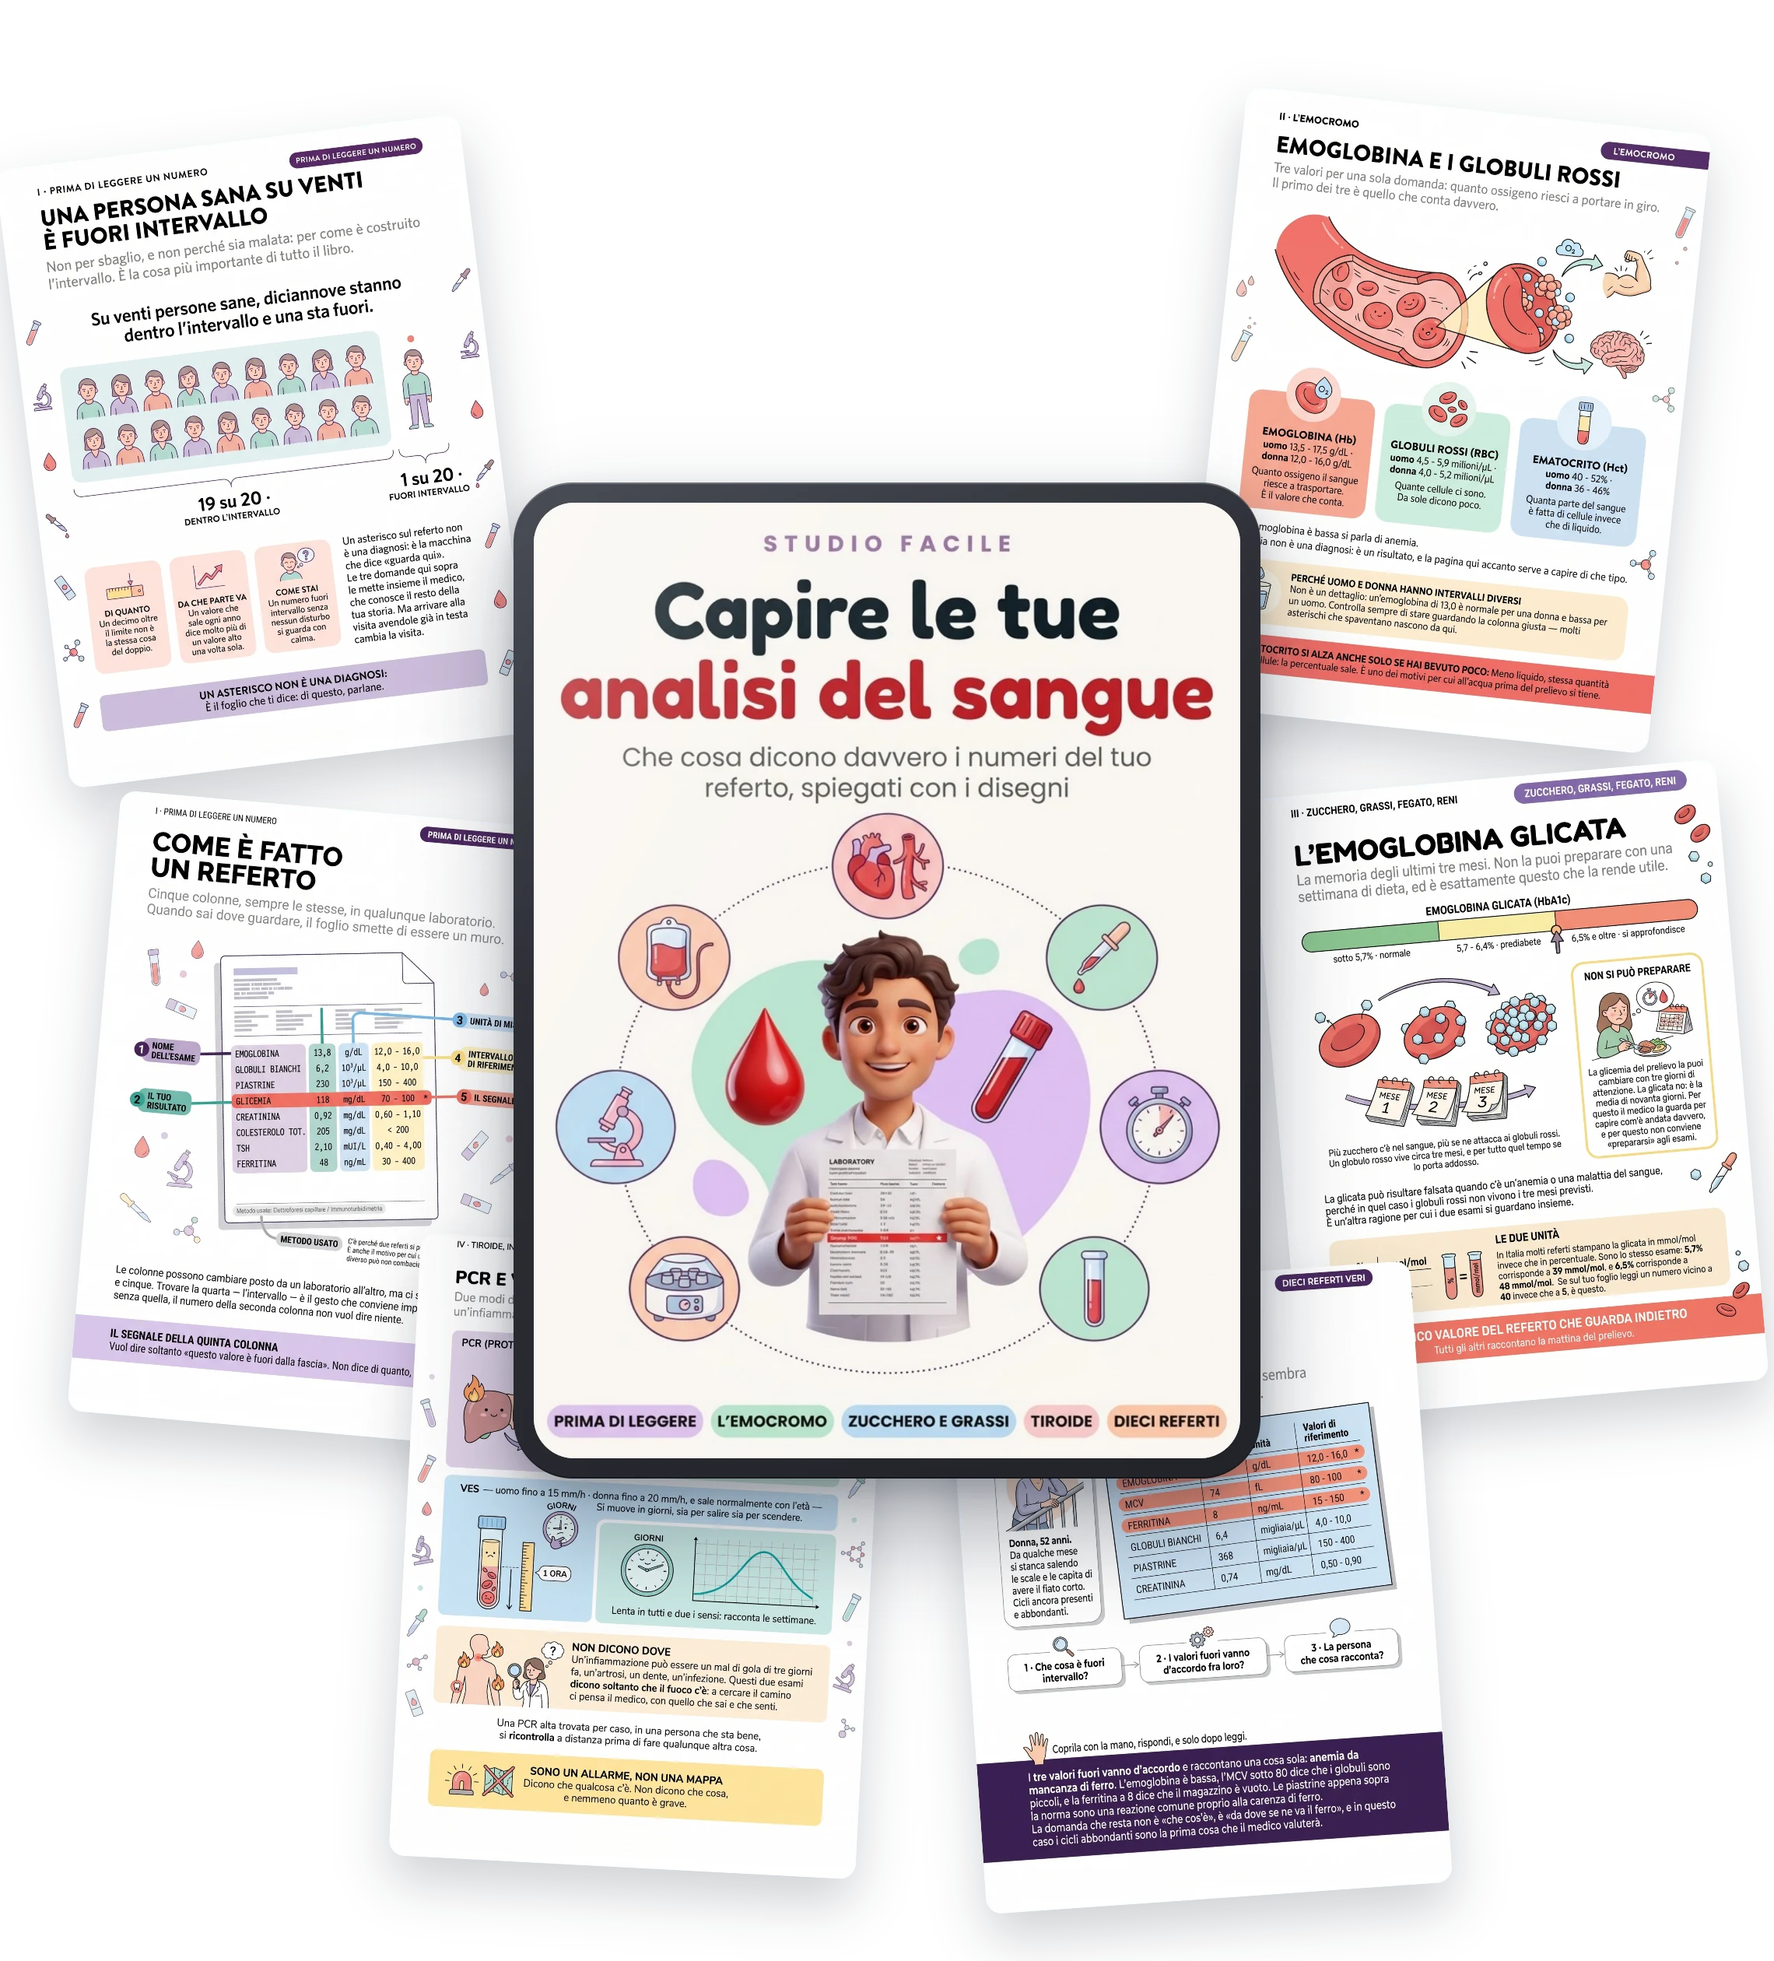
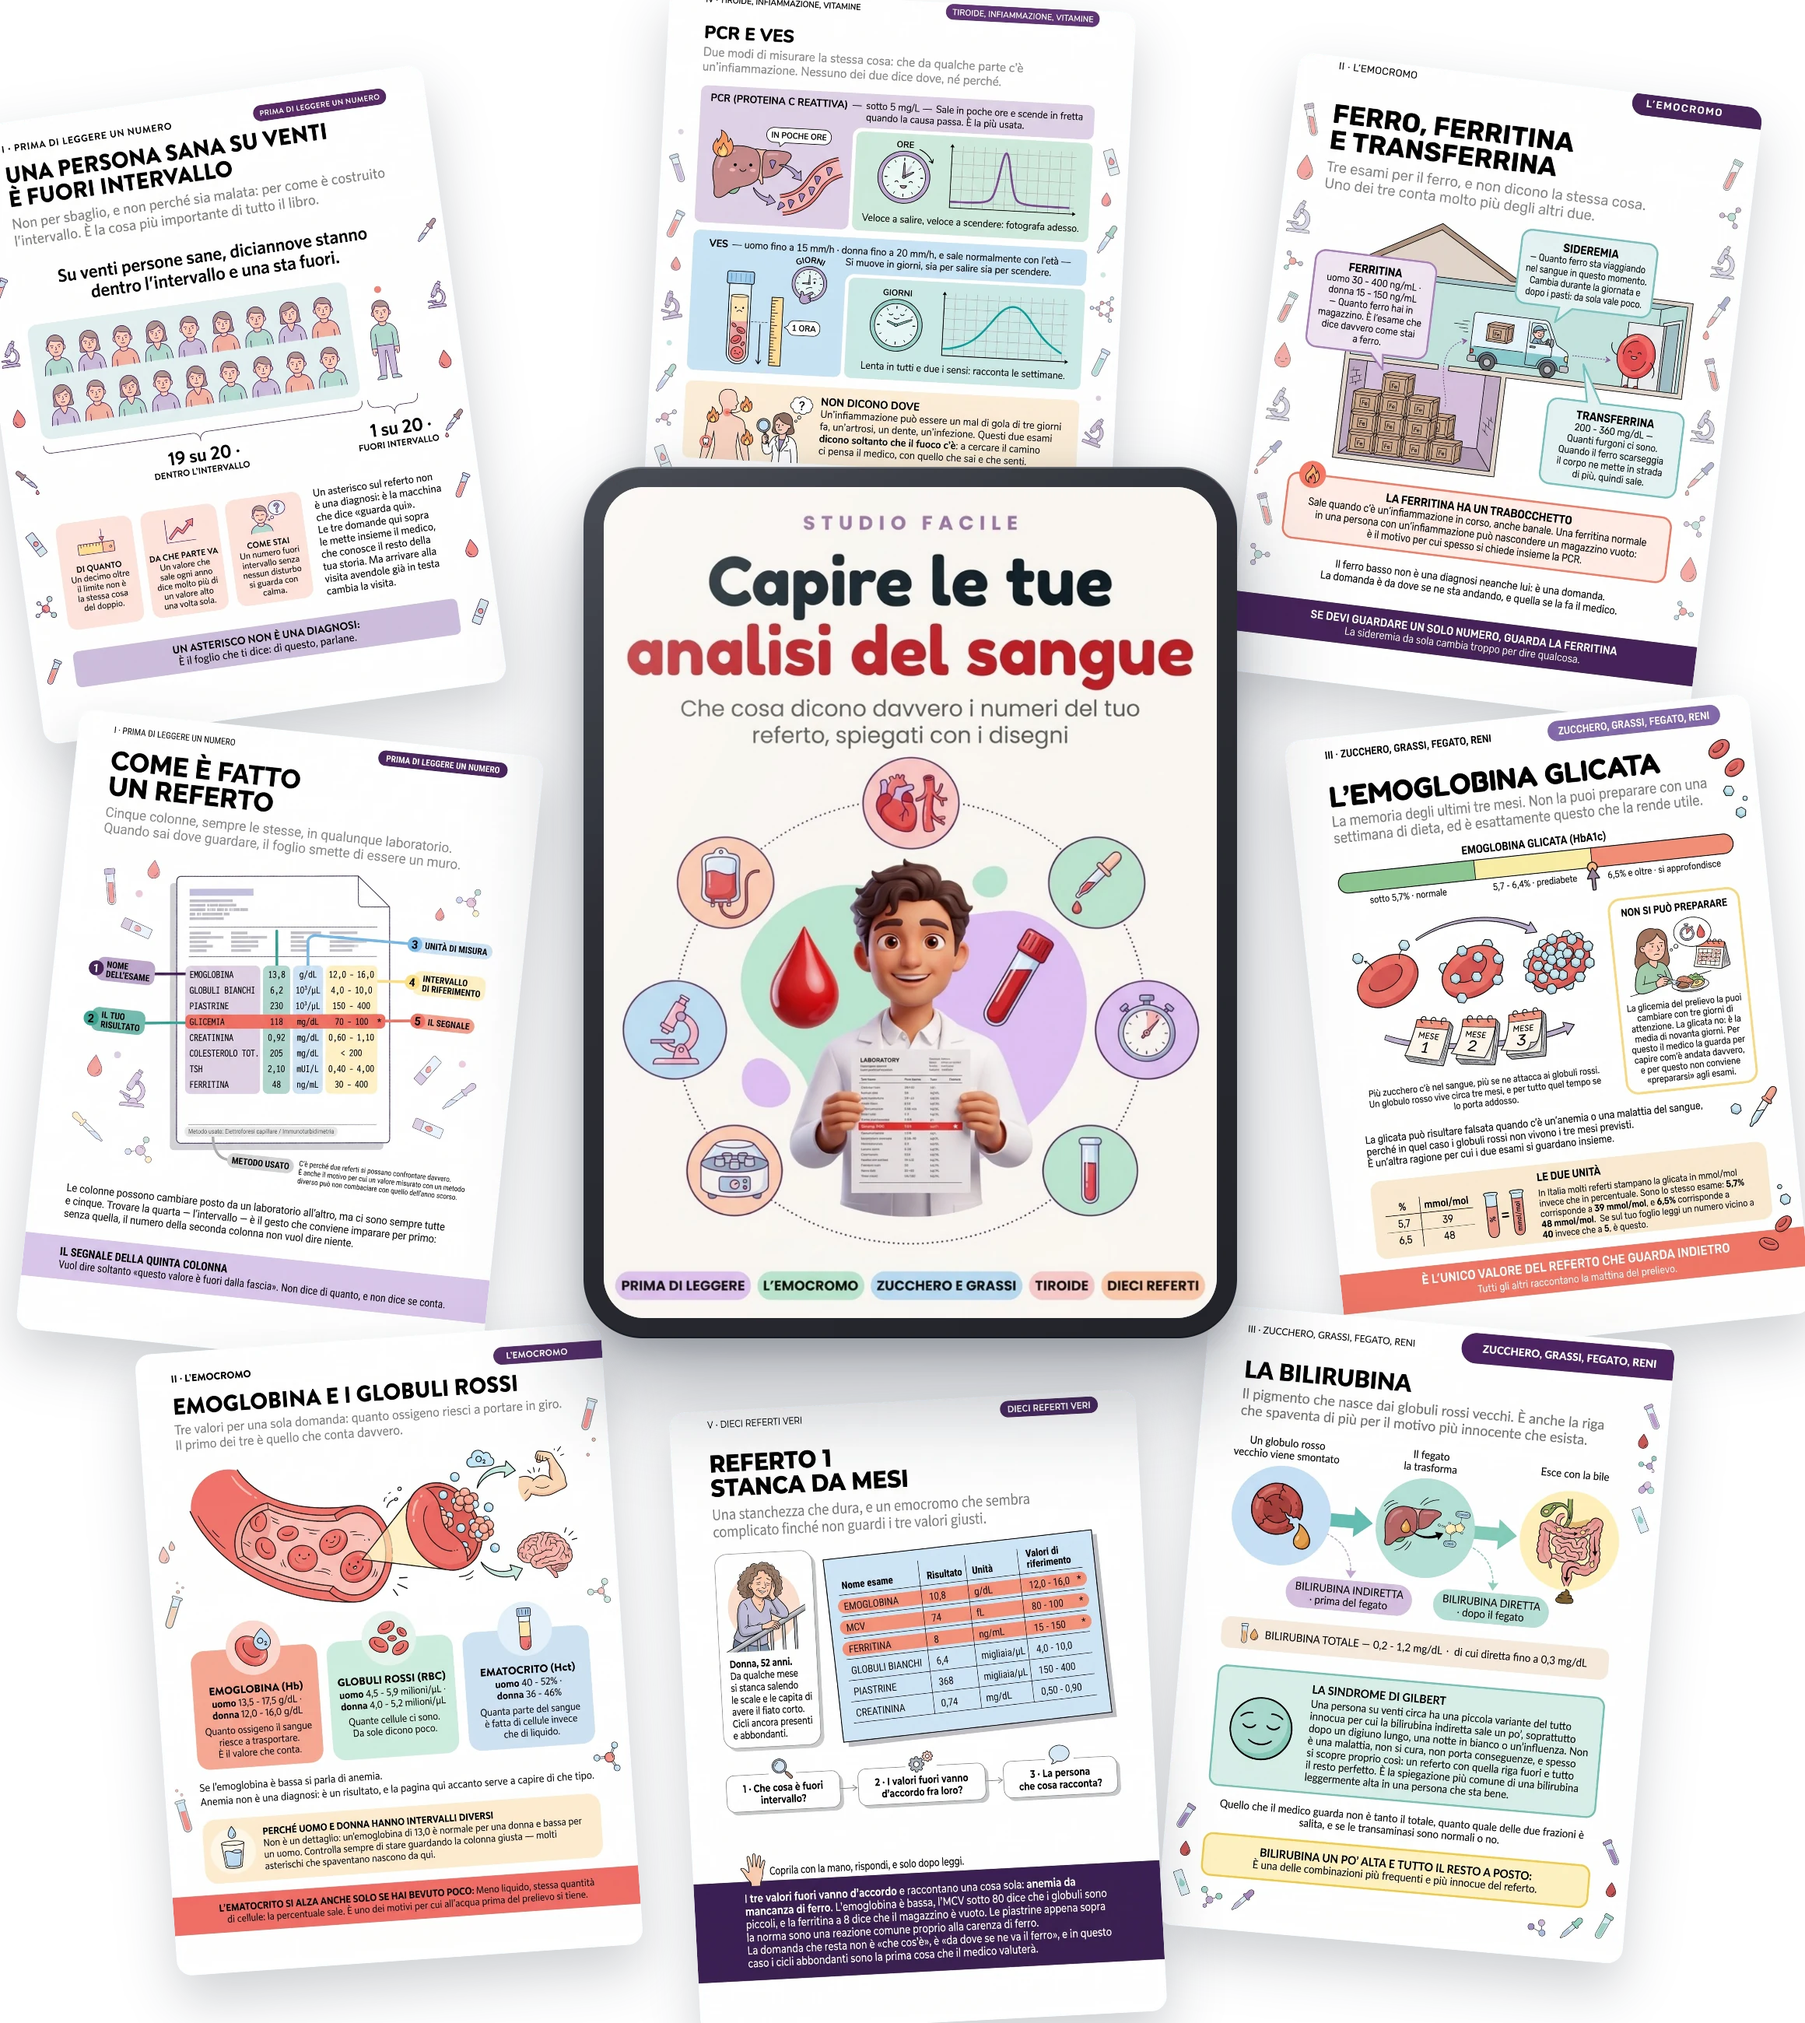
Le due landing salute prendono il copy di /ecg, che converte meglio di tutte
TITOLO. La formula e' quella sua: «Il Modo Piu' Semplice per [fare la cosa]
Senza [il dolore]!». Analisi: senza cercare i valori su internet. Farmaci:
senza perderti nel foglietto. Prima erano «Finalmente capisci...», che dice il
risultato ma non nomina cio' da cui il lettore vuole scappare.

SOTTOTITOLO. Stessa struttura di /ecg: per chi e', che cosa deve riuscire a
fare, con che cosa gliel'abbiamo spiegato.

H2. Parola per parola dove ha senso: «Ecco Come Sono le Pagine Che Leggerai»,
«E Se Esistesse un Modo Piu' Semplice?», «Dai un'occhiata alle 5 parti e ai N
capitoli», «2 Volumi in Regalo», «Un'Ultima Cosa Prima Che Tu Decida...».
Il blocco del problema prende la sua forma: «Smetti di ...».

«Studierai» resta fuori: il lettore di queste due pagine non studia, e la
parola sbagliata nella prima riga costa piu' di quanto renda la coerenza.

IMMAGINE DELLE PARTI. Otto fogli intorno al tablet invece di sei, come sulla
pagina di ECG: con sei restavano buchi agli angoli e il gruppo sembrava sparso.

diff --git a/farmaci.html b/farmaci.html
@@ -2143,9 +2143,9 @@
         <span class="stars" aria-hidden="true">★★★★★</span>
         <span><strong>+11.978 studenti e professionisti</strong> della salute</span>
       </p>
-      <h1>Finalmente Sai Che Cosa Fanno <mark>Le Compresse Che Prendi</mark></h1>
-      <p class="subheadline">La guida illustrata per chi apre il cassetto e trova cinque scatole: sa quando prenderle e non sa che cosa facciano. Nessuna dose, nessun nome commerciale, un disegno per pagina.</p>
-      <a href="#offerta" id="cta-hero" class="btn-cta">VOGLIO CAPIRE LE MIE MEDICINE</a>
+      <h1>Il Modo Più Semplice per Capire le Medicine Che Prendi <mark>Senza Perderti nel Foglietto!</mark></h1>
+      <p class="subheadline">Il materiale per chi apre il cassetto e trova cinque scatole: che cosa fa ognuna dentro di te, che cosa puoi sentire e che cosa devi dire al medico. Spiegato con i disegni, senza dosi e senza nomi commerciali.</p>
+      <a href="#offerta" id="cta-hero" class="btn-cta">VOGLIO SAPERE CHE COSA PRENDO</a>
       <p class="cta-small-print">
         <svg aria-hidden="true" focusable="false" class="lc" viewBox="0 0 24 24" fill="none" stroke="currentColor" stroke-width="2" stroke-linecap="round" stroke-linejoin="round"><rect width="18" height="11" x="3" y="11" rx="2" ry="2"/><path d="M7 11V7a5 5 0 0 1 10 0v4"/></svg>  Libro digitale in PDF · Pagamento sicuro · Accesso immediato · Garanzia 30 giorni senza domande
       </p>
@@ -2178,7 +2178,7 @@
   <!-- PROBLEMA -->
   <section class="section">
     <div class="container">
-      <h2 class="text-center">Ti Riconosci in Questo?</h2>
+      <h2 class="text-center">Smetti di prendere ogni giorno qualcosa che non sai che cosa fa:</h2>
       <ul class="recap-list">
         <li>Hai cinque scatole nel cassetto e sapresti dire l'orario di tutte, ma non che cosa fanno.</li>
         <li>Il foglietto illustrativo è scritto per non essere letto, e quando lo leggi ti fa venire voglia di non prenderle.</li>
@@ -2191,7 +2191,7 @@
   <!-- ANTEPRIME -->
   <section class="section section-alt" aria-label="Anteprime del materiale">
     <div class="container">
-      <h2 class="text-center">Ecco Come Sono le Pagine</h2>
+      <h2 class="text-center">Ecco Come Sono le Pagine Che Leggerai</h2>
       <p class="text-center section-sub-p">Un argomento per pagina, parole di tutti i giorni e disegni che restano in testa. Tocca una pagina per vederla in grande:</p>
       
       <div class="testimonials-carousel-wrap" role="region" aria-label="Carosello delle anteprime">
@@ -2291,7 +2291,7 @@
   <!-- SOLUZIONE -->
   <section class="section">
     <div class="container">
-      <h2 class="text-center">E Se Ci Fosse un Modo Più Semplice?</h2>
+      <h2 class="text-center">E Se Esistesse un Modo Più Semplice?</h2>
       <div class="solution-content">
         <p class="text-center">Invece di leggere otto pagine di foglietto per capire che cosa fa una compressa...</p>
         <p class="text-center">...apri <strong>una pagina sola</strong> con quattro riquadri, sempre gli stessi: che cosa fa dentro di me, perché me l'hanno dato, che cosa posso sentire, che cosa devo dire al medico.</p>
@@ -2307,9 +2307,9 @@
   <!-- SOMMARIO -->
   <section class="section section-alt">
     <div class="container">
-      <h2 class="text-center">Le 5 Parti del Libro</h2>
+      <h2 class="text-center">Dai un'occhiata alle 5 parti e ai 31 capitoli</h2>
       <div style="margin: 20px auto 28px;">
-        <img src="https://czocbnyoenjbpxmcqobn.supabase.co/storage/v1/object/public/algoritmia-img/studiofacile/mockups/farmaci/combo.webp?v=61e719c6" alt="La copertina di I farmaci che prendi, spiegati circondata da pagine di esempio" width="1140" height="1260" loading="lazy" decoding="async" style="max-width: 480px; width: 100%; height: auto; display: block; margin: 0 auto;">
+        <img src="https://czocbnyoenjbpxmcqobn.supabase.co/storage/v1/object/public/algoritmia-img/studiofacile/mockups/farmaci/combo.webp?v=c11cf0d2" alt="La copertina di I farmaci che prendi, spiegati circondata da pagine di esempio" width="1140" height="1260" loading="lazy" decoding="async" style="max-width: 480px; width: 100%; height: auto; display: block; margin: 0 auto;">
       </div>
       <div class="topics-grid">
         <div class="topic-item">
@@ -2342,7 +2342,7 @@
   <!-- VALUE STACK -->
   <section class="value-section">
     <div class="container">
-      <h2 class="text-center">Ma Non è Tutto: Riceverai Anche 2 Bonus in Regalo</h2>
+      <h2 class="text-center">Ma Non è Tutto: Riceverai Anche 2 Volumi in Regalo</h2>
       <div class="bonus-grid">
         <div class="bonus-item-with-image">
           <div class="bonus-mockup">
@@ -2400,7 +2400,7 @@
   <!-- PER CHI -->
   <section class="section">
     <div class="container">
-      <h2 class="text-center">Fa per Te?</h2>
+      <h2 class="text-center">Questo Materiale Fa per Te?</h2>
       <div class="paraquem-grid">
         <div class="paraquem-card">
           <div class="paraquem-info">
@@ -2460,7 +2460,7 @@
   <!-- RIEPILOGO -->
   <section class="section section-alt">
     <div class="container">
-      <h2 class="text-center">Ricapitolando: Ecco Cosa Ricevi</h2>
+      <h2 class="text-center">Ricapitolando: Ecco Cosa Ricevi Oggi</h2>
       <ul class="recap-list">
         <li>40 pagine illustrate, una famiglia di farmaci per pagina</li>
         <li>Le stesse quattro domande su ogni pagina, sempre nello stesso posto</li>
@@ -2553,7 +2553,7 @@
   <!-- CTA FINALE -->
   <section class="final-cta">
     <div class="container">
-      <h2>Un'Ultima Cosa</h2>
+      <h2>Un'Ultima Cosa Prima Che Tu Decida...</h2>
       <p>Prendere una cosa tutti i giorni senza sapere che cosa fa non è normale, anche se è comune.</p>
       <p>Non devi diventare farmacista.</p>
       <p>Ti basta capire che cosa hai in mano, e sapere che cosa dire quando qualcosa cambia.</p>

diff --git a/analisi.html b/analisi.html
@@ -2143,9 +2143,9 @@
         <span class="stars" aria-hidden="true">★★★★★</span>
         <span><strong>+11.978 studenti e professionisti</strong> della salute</span>
       </p>
-      <h1>Finalmente Capisci Che Cosa Dice <mark>Il Tuo Referto delle Analisi</mark></h1>
-      <p class="subheadline">La guida illustrata per chi ritira gli esami del sangue, vede quattro asterischi e non sa se deve preoccuparsi. Scritta per chi non è medico, con un disegno per ogni pagina.</p>
-      <a href="#offerta" id="cta-hero" class="btn-cta">VOGLIO CAPIRE LE MIE ANALISI</a>
+      <h1>Il Modo Più Semplice per Capire le Tue Analisi del Sangue <mark>Senza Cercare i Valori su Internet!</mark></h1>
+      <p class="subheadline">Il materiale per chi ritira gli esami, vede quattro asterischi e non sa se deve preoccuparsi: che cosa misura ogni valore, quando conta davvero e che cosa chiedere al medico. Spiegato con i disegni, su referti letti riga per riga.</p>
+      <a href="#offerta" id="cta-hero" class="btn-cta">VOGLIO CAPIRE LE MIE ANALISI CON SICUREZZA</a>
       <p class="cta-small-print">
         <svg aria-hidden="true" focusable="false" class="lc" viewBox="0 0 24 24" fill="none" stroke="currentColor" stroke-width="2" stroke-linecap="round" stroke-linejoin="round"><rect width="18" height="11" x="3" y="11" rx="2" ry="2"/><path d="M7 11V7a5 5 0 0 1 10 0v4"/></svg>  Libro digitale in PDF · Pagamento sicuro · Accesso immediato · Garanzia 30 giorni senza domande
       </p>
@@ -2178,7 +2178,7 @@
   <!-- PROBLEMA -->
   <section class="section">
     <div class="container">
-      <h2 class="text-center">Ti Riconosci in Questo?</h2>
+      <h2 class="text-center">Smetti di cercare i tuoi valori su internet:</h2>
       <ul class="recap-list">
         <li>Ritiri gli esami, apri il foglio e trovi venti sigle che non hai mai visto: MCV, GGT, TSH, eGFR.</li>
         <li>Accanto a una c'è un asterisco. Non sai se vuol dire «niente» o «chiama subito».</li>
@@ -2191,7 +2191,7 @@
   <!-- ANTEPRIME -->
   <section class="section section-alt" aria-label="Anteprime del materiale">
     <div class="container">
-      <h2 class="text-center">Ecco Come Sono le Pagine</h2>
+      <h2 class="text-center">Ecco Come Sono le Pagine Che Leggerai</h2>
       <p class="text-center section-sub-p">Un argomento per pagina, parole di tutti i giorni e disegni che restano in testa. Tocca una pagina per vederla in grande:</p>
       
       <div class="testimonials-carousel-wrap" role="region" aria-label="Carosello delle anteprime">
@@ -2291,7 +2291,7 @@
   <!-- SOLUZIONE -->
   <section class="section">
     <div class="container">
-      <h2 class="text-center">E Se Ci Fosse un Modo Più Semplice?</h2>
+      <h2 class="text-center">E Se Esistesse un Modo Più Semplice?</h2>
       <div class="solution-content">
         <p class="text-center">Invece di cercare «ferritina bassa» su internet e finire su un forum...</p>
         <p class="text-center">...apri <strong>una pagina sola</strong> che ti mostra come funziona il ferro, che cosa misura ognuno dei tre esami e quale dei tre conta davvero.</p>
@@ -2307,9 +2307,9 @@
   <!-- SOMMARIO -->
   <section class="section section-alt">
     <div class="container">
-      <h2 class="text-center">Le 5 Parti del Libro</h2>
+      <h2 class="text-center">Dai un'occhiata alle 5 parti e ai 36 capitoli</h2>
       <div style="margin: 20px auto 28px;">
-        <img src="https://czocbnyoenjbpxmcqobn.supabase.co/storage/v1/object/public/algoritmia-img/studiofacile/mockups/analisi/combo.webp?v=2feadf24" alt="La copertina di Capire le tue analisi del sangue circondata da pagine di esempio" width="1140" height="1260" loading="lazy" decoding="async" style="max-width: 480px; width: 100%; height: auto; display: block; margin: 0 auto;">
+        <img src="https://czocbnyoenjbpxmcqobn.supabase.co/storage/v1/object/public/algoritmia-img/studiofacile/mockups/analisi/combo.webp?v=94357600" alt="La copertina di Capire le tue analisi del sangue circondata da pagine di esempio" width="1140" height="1260" loading="lazy" decoding="async" style="max-width: 480px; width: 100%; height: auto; display: block; margin: 0 auto;">
       </div>
       <div class="topics-grid">
         <div class="topic-item">
@@ -2342,7 +2342,7 @@
   <!-- VALUE STACK -->
   <section class="value-section">
     <div class="container">
-      <h2 class="text-center">Ma Non è Tutto: Riceverai Anche 2 Bonus in Regalo</h2>
+      <h2 class="text-center">Ma Non è Tutto: Riceverai Anche 2 Volumi in Regalo</h2>
       <div class="bonus-grid">
         <div class="bonus-item-with-image">
           <div class="bonus-mockup">
@@ -2400,7 +2400,7 @@
   <!-- PER CHI -->
   <section class="section">
     <div class="container">
-      <h2 class="text-center">Fa per Te?</h2>
+      <h2 class="text-center">Questo Materiale Fa per Te?</h2>
       <div class="paraquem-grid">
         <div class="paraquem-card">
           <div class="paraquem-info">
@@ -2460,7 +2460,7 @@
   <!-- RIEPILOGO -->
   <section class="section section-alt">
     <div class="container">
-      <h2 class="text-center">Ricapitolando: Ecco Cosa Ricevi</h2>
+      <h2 class="text-center">Ricapitolando: Ecco Cosa Ricevi Oggi</h2>
       <ul class="recap-list">
         <li>45 pagine illustrate, un argomento per pagina</li>
         <li>Dieci referti veri risolti passo per passo</li>
@@ -2553,7 +2553,7 @@
   <!-- CTA FINALE -->
   <section class="final-cta">
     <div class="container">
-      <h2>Un'Ultima Cosa</h2>
+      <h2>Un'Ultima Cosa Prima Che Tu Decida...</h2>
       <p>Un referto non deve farti paura.</p>
       <p>Non devi cercare i tuoi valori su internet e finire a leggere la cosa peggiore che poteva capitarti.</p>
       <p>E non devi uscire da una visita annuendo senza aver capito.</p>
